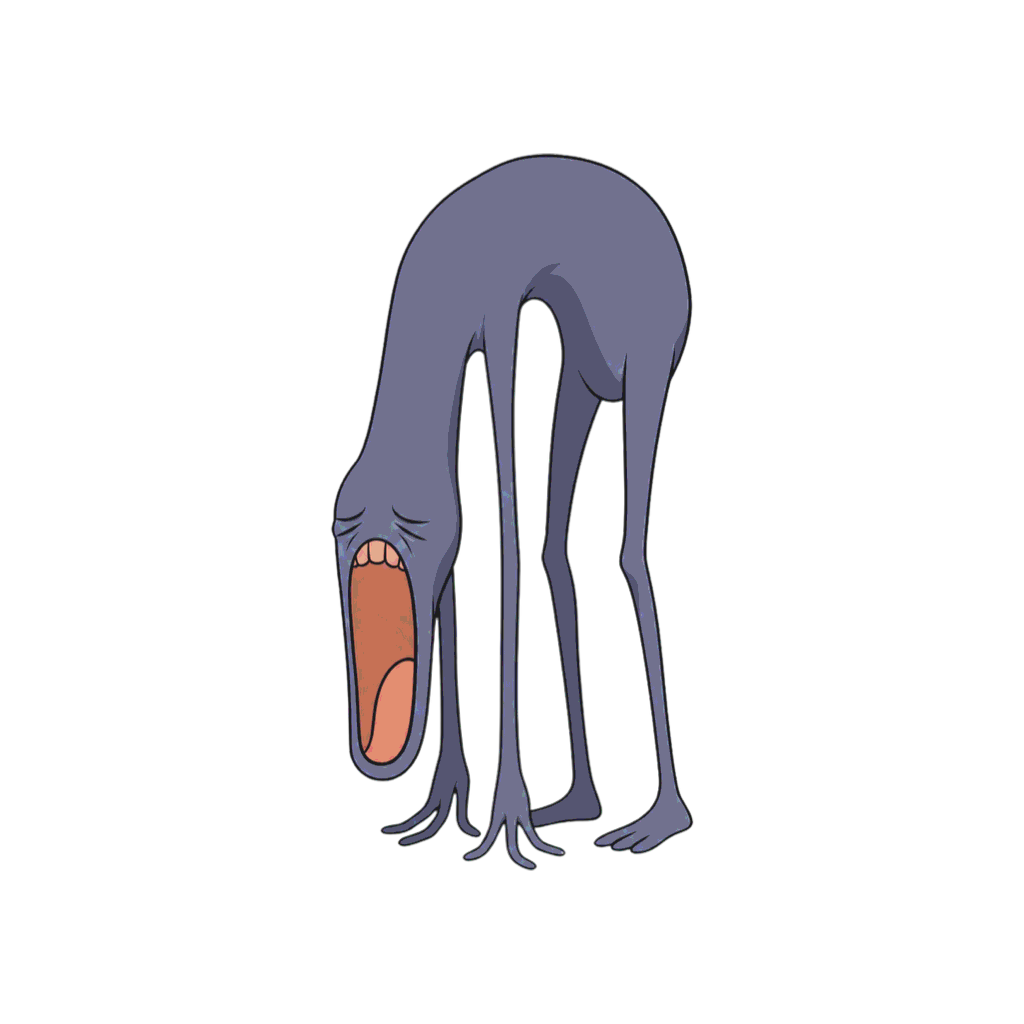
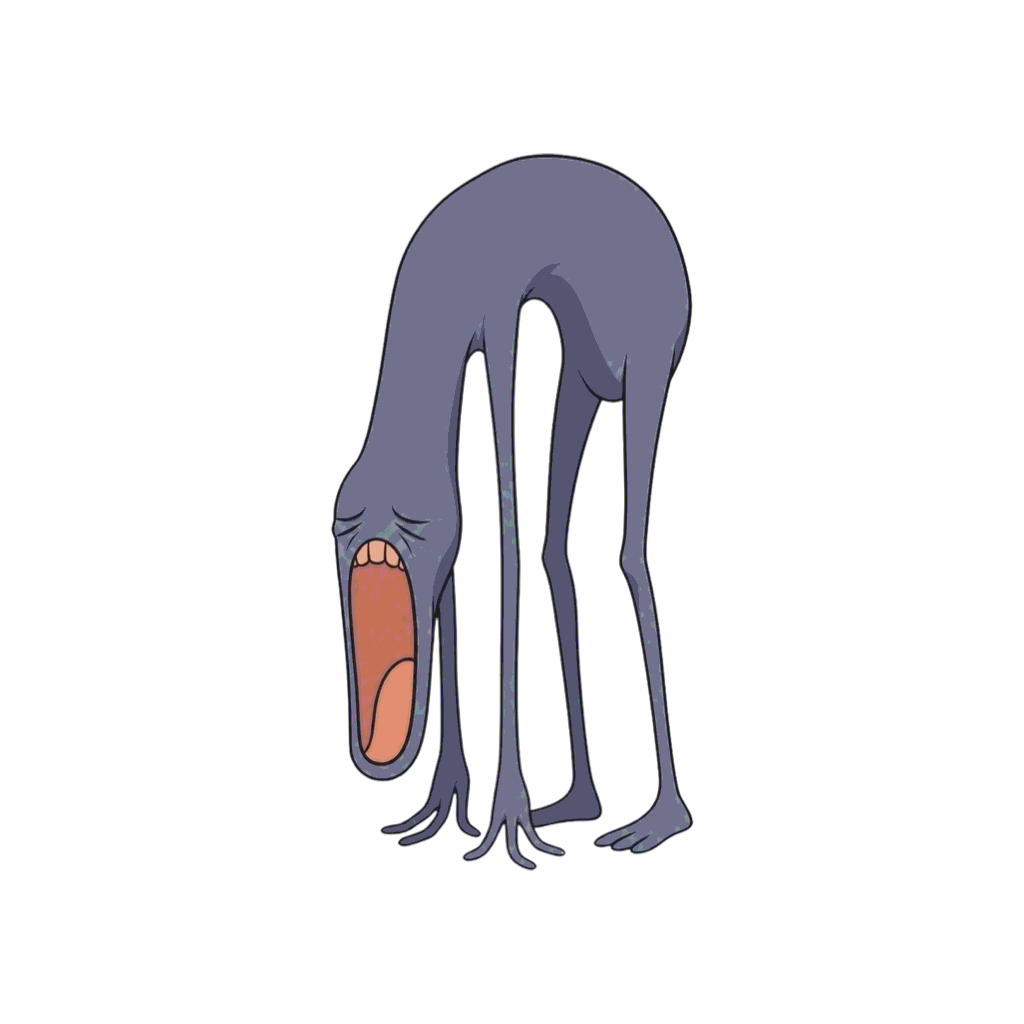
fix: 色差の平滑化と加算方式の色寄せを追加し、ダラリを初期版に戻した
ダラリの頭を直そうとして6回作り直した結果、毎回別の要素が壊れた。
頭を分離させると痩せ、質量を足すと紫になり、色を直すと頭が戻り、
「頭から垂れる布」として書くと幽霊になった。**最終的に元の文面の出力が最良**で、
採用アセットは初期版に戻した。ART_PROMPTS.md の当該ブロックに「触らないこと」と
経緯を明記した。私が改善しようとして壊した箇所なので、同じことを繰り返さないため。

初期版はほぼ無彩色（0.14）で set から浮くが、これは後処理で解決した。

【後処理の追加】
1. 色差の平滑化。生成物の微細なテクスチャは減色すると斑になって固まる。
   輝度は触らず色差だけを均すので、輪郭線と陰影の境界は鋭いまま残る。
   ネムケの紫のまだらが消えた。
2. 彩度が目標に届かない素材への色寄せを、掛け算から加算に変更。
   掛け算で引き上げると局所的な色ムラまで増幅され、初期版ダラリに
   紫のまだらが浮いた。加算なら差を増幅しないので発生しない。

結果、4体すべてが明度 102〜108、彩度 0.223〜0.237 に収束した。
造形は生成、色は後処理、という役割分担が機能している。

diff --git a/tools/artpipeline/main.swift b/tools/artpipeline/main.swift
@@ -58,6 +58,17 @@ enum Config {
     /// シルエットは生成でしか作れないが、色は機械的に揃えられる。ここで吸収する。
     static let targetLuminance = 107.0
     static let targetSaturation = 0.23
+
+    /// 彩度が目標に届かない素材へ加算する色差の向き（灰紫）と最大量。
+    /// 掛け算ではなく加算にすることで、色ムラを増幅せずに色味を寄せられる。
+    static let tintDirection: (r: Double, g: Double, b: Double) = (6, -8, 14)
+    static let tintStrength = 3.0
+
+    /// 減色の前に色差を平滑化する半径。
+    ///
+    /// 生成物のテクスチャは、そのまま減色すると斑（まだら）として固まる。
+    /// **輝度は触らず色差だけを平滑化する**ので、輪郭線の鋭さは保たれる。
+    static let chromaBlurRadius = 3
 }
 
 // MARK: - 画像の読み書き
@@ -347,7 +358,15 @@ func normalizeColor(_ bitmap: inout Bitmap) -> (luminance: Double, saturation: D
     let meanLum = lumSum / Double(count)
     let meanSat = satSum / Double(count)
     let lumScale = meanLum > 0 ? Config.targetLuminance / meanLum : 1
-    let satScale = meanSat > 0 ? Config.targetSaturation / meanSat : 1
+    // **彩度は下げる方向にしか掛け算しない。**
+    // 引き上げると、元がほぼ無彩色の絵では微妙な色ムラまで増幅され、
+    // 紫のまだらが浮き出る（初期版ダラリで実際に起きた）。
+    let satScale = min(1.0, meanSat > 0 ? Config.targetSaturation / meanSat : 1)
+
+    // 目標を下回る場合は、掛け算ではなく**色差を一律に足して**色味を寄せる。
+    // 加算は局所的な差を増幅しないので、ノイズが浮き出ない。
+    let deficit = max(0, Config.targetSaturation - meanSat * satScale)
+    let tint = min(1.0, deficit / Config.targetSaturation)
 
     for y in 0..<bitmap.height {
         for x in 0..<bitmap.width {
@@ -355,11 +374,19 @@ func normalizeColor(_ bitmap: inout Bitmap) -> (luminance: Double, saturation: D
             guard p.a > 0 else { continue }
             var r = Double(p.r), g = Double(p.g), b = Double(p.b)
 
-            // 彩度: 各画素の最大値からの差を伸縮させる。色相は保つ。
+            // 彩度: 各画素の最大値からの差を縮める。色相は保つ。
             let mx = max(r, g, b)
             r = mx - (mx - r) * satScale
             g = mx - (mx - g) * satScale
             b = mx - (mx - b) * satScale
+
+            // 足りない分は、灰紫の色差を一律に加算して寄せる。
+            if tint > 0 {
+                let amount = Config.tintStrength * tint
+                r += Config.tintDirection.r * amount
+                g += Config.tintDirection.g * amount
+                b += Config.tintDirection.b * amount
+            }
 
             // 明度: 全体を一律に伸縮させる。
             r *= lumScale; g *= lumScale; b *= lumScale
@@ -371,6 +398,56 @@ func normalizeColor(_ bitmap: inout Bitmap) -> (luminance: Double, saturation: D
         }
     }
     return (meanLum, meanSat)
+}
+
+// MARK: - 3c. 色差の平滑化
+
+/// 輝度を保ったまま色差だけをぼかす。
+///
+/// 生成物の微細なテクスチャは、減色すると斑になって固まる。色差だけを均せば
+/// 斑が消え、輝度は触らないので輪郭線と陰影の境界は鋭いまま残る。
+func smoothChroma(_ bitmap: inout Bitmap) {
+    let radius = Config.chromaBlurRadius
+    guard radius > 0 else { return }
+    let w = bitmap.width, h = bitmap.height
+    let source = bitmap
+
+    for y in 0..<h {
+        for x in 0..<w {
+            let p = source[x, y]
+            guard p.a > 0 else { continue }
+
+            var sumCb = 0.0, sumCr = 0.0, count = 0.0
+            for dy in -radius...radius {
+                for dx in -radius...radius {
+                    let nx = x + dx, ny = y + dy
+                    guard nx >= 0, nx < w, ny >= 0, ny < h else { continue }
+                    let q = source[nx, ny]
+                    guard q.a > 0 else { continue }
+                    let r = Double(q.r), g = Double(q.g), b = Double(q.b)
+                    let yy = 0.299 * r + 0.587 * g + 0.114 * b
+                    sumCb += b - yy
+                    sumCr += r - yy
+                    count += 1
+                }
+            }
+            guard count > 0 else { continue }
+
+            let r = Double(p.r), g = Double(p.g), b = Double(p.b)
+            let luma = 0.299 * r + 0.587 * g + 0.114 * b
+            let cb = sumCb / count, cr = sumCr / count
+            // Cb/Cr から RGB へ戻す（G は輝度の定義から逆算）
+            let nb = luma + cb
+            let nr = luma + cr
+            let ng = (luma - 0.299 * nr - 0.114 * nb) / 0.587
+
+            var out = p
+            out.r = UInt8(max(0, min(255, nr)))
+            out.g = UInt8(max(0, min(255, ng)))
+            out.b = UInt8(max(0, min(255, nb)))
+            bitmap[x, y] = out
+        }
+    }
 }
 
 // MARK: - 4. ポスタリゼーション
@@ -409,6 +486,7 @@ guard var normalized = normalize(bitmap) else {
     print("本体が見つかりません（背景の除去が効きすぎている可能性）: \(arguments[1])")
     exit(1)
 }
+smoothChroma(&normalized)
 let before = normalizeColor(&normalized)
 posterize(&normalized)
 

diff --git a/ART_PROMPTS.md b/ART_PROMPTS.md
@@ -89,6 +89,10 @@ STYLE SPEC (identical for every image in this set):
   and quietly unsettling.
 ```
 
+**明度と彩度の指示は STYLE SPEC に入れていない。** 後処理（`tools/artpipeline`）が
+機械的に揃えるため不要であり、かつ**指示を増やすほど造形が犠牲になる**ことが
+実測で分かっている（ダラリの頭が4回中2回失われた）。記述量は造形に回す。
+
 ---
 
 ## 3. 個体ブロック（3体）
@@ -100,11 +104,7 @@ STYLE SPEC (identical for every image in this set):
 
 ```
 CHARACTER: A slouching blob creature that has half-melted downward and pooled
-into a puddle at its own base. The body is BULKY, HEAVY and WIDE — a thick
-sagging mass, never thin or spindly. Above it sits a CLEARLY DEFINED ROUNDED
-HEAD: a smooth dome that is somewhat narrower than the bulky body, separated
-from it by sloping drooping shoulders. The head must read as a head, but the
-body below must stay visibly heavier and wider than the head.
+into a puddle at its own base. Rounded, drooping shoulders it cannot hold up.
 Two heavy-lidded eyes with pupils drifting in different directions. A small
 mouth left hanging open. Two thin arms hanging straight down, dragging on the
 floor. Accent color: dull mustard yellow on the underside of the puddle.
@@ -151,15 +151,17 @@ Accent color: faded brick red on the pads of all visible paws.
 
 ### 第1章 — 日常に忍び込む怠惰
 
-#### ① ダラリ / Darari — 標準（既存・要再生成）
+#### ① ダラリ / Darari — 標準
+
+**この文面は触らないこと。** 採用アセットはこの記述で生成されたもの。
+「頭が胴と一体化して見える」という指摘を受けて6回書き直したが、毎回別の要素が壊れた
+（頭を分離させると痩せる、質量を足すと紫になる、色を直すと頭が戻る、
+頭からの垂れ布として書くと幽霊になる）。**最終的に元の文面の出力が最良だった。**
+色の不一致は後処理で解消済み。
 
 ```
 CHARACTER: A slouching blob creature that has half-melted downward and pooled
-into a puddle at its own base. The body is BULKY, HEAVY and WIDE — a thick
-sagging mass, never thin or spindly. Above it sits a CLEARLY DEFINED ROUNDED
-HEAD: a smooth dome that is somewhat narrower than the bulky body, separated
-from it by sloping drooping shoulders. The head must read as a head, but the
-body below must stay visibly heavier and wider than the head.
+into a puddle at its own base. Rounded, drooping shoulders it cannot hold up.
 Two heavy-lidded eyes with pupils drifting in different directions. A small
 mouth left hanging open. Two thin arms hanging straight down, dragging on the
 floor. Accent color: dull mustard yellow on the underside of the puddle.
